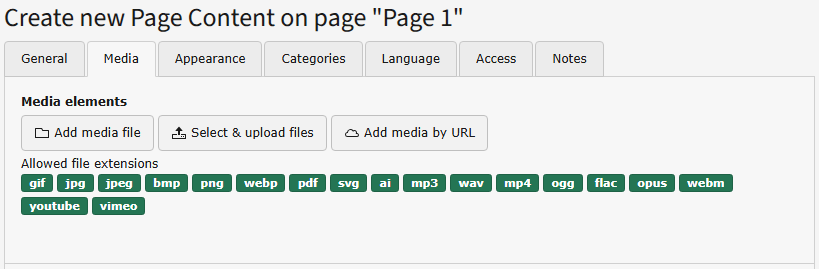
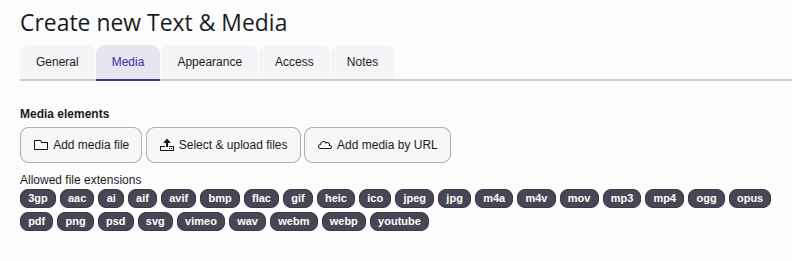
[TASK] Replace screenshots Content Elements/Embedding Videos (#271)
Releases: main

Changed region(s): [[0.0, 0.1533, 1.0, 0.8889], [0.0, 0.0307, 0.5758, 0.1226], [0.0, 0.9502, 1.0, 0.9808]]

diff --git a/Documentation/ContentElements/Media/Index.rst b/Documentation/ContentElements/Media/Index.rst
@@ -42,7 +42,7 @@ Add a video to a page
 
 If you want to embed a previously uploaded video or upload a new video use the
 button :guilabel:`Add media file`. If you want to embed a video from an external
-source like YouTube or Vimeo, use the button :guilabel:`Add media URL` instead.
+source like YouTube or Vimeo, use the button :guilabel:`Add media by URL` instead.
 
 ..  figure:: /Images/ManualScreenshots/ContentElements/Media.png
     :alt: Tab media of the text and media content element in TYPO3
